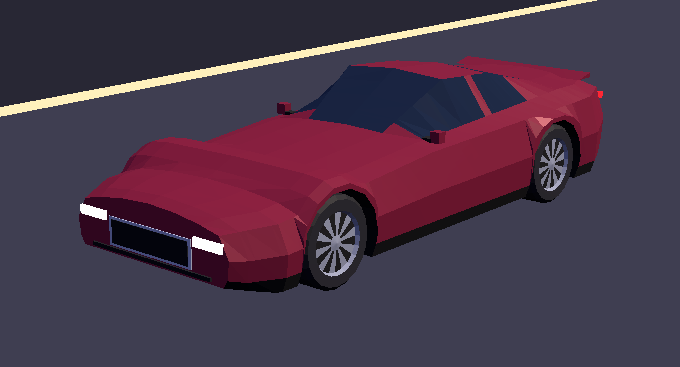
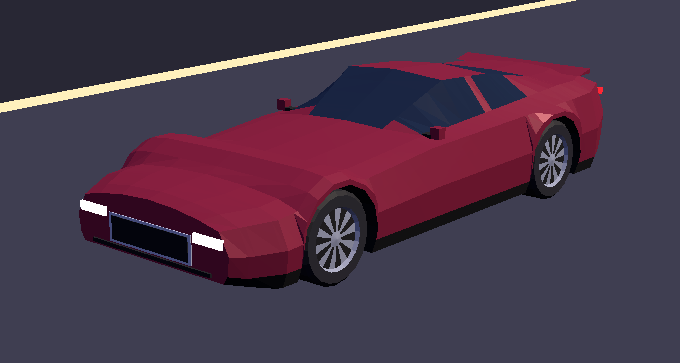
crazygames cars: the wing to the body's width, the tourer lower, a taller ducktail

diff --git a/crazygames/game/src/cars/driftbuild.js b/crazygames/game/src/cars/driftbuild.js
@@ -36,7 +36,7 @@ export default {
     { type: 'canards', z: 0.14, x0: 0.62, x1: 0.84, y: 0.3, rise: 0.06, colour: 0x1d1e22 },
     { type: 'skirts', y0: 0.1, y1: 0.2, out: 0.1, colour: 0x1d1e22 },
     { type: 'diffuser', depth: 0.45, y0: 0.13, y1: 0.33, rise: 0.12, span: 0.7, fins: 4, colour: 0x1d1e22 },
-    { type: 'wing', z: 1.98, chord: 0.38, thick: 0.05, angle: 0.22, y: 1.36, span: 0.88, post: 0.45, plateUp: 0.1, plateDown: 0.28, platePaint: true, colour: 0x16171b },
+    { type: 'wing', z: 1.98, chord: 0.38, thick: 0.05, angle: 0.22, y: 1.36, span: 0.97, post: 0.45, plateUp: 0.1, plateDown: 0.3, platePaint: true, colour: 0x16171b },
     { type: 'exhaust', x: [0.36], y: 0.24, r: 0.055, out: 0.015 },
   ],
   wheel: { segments: 18, spokes: 6, spokeShare: 0.34, rim: 0.66, dish: 0.07, colour: 0xc08a3e },

diff --git a/crazygames/game/src/cars/tourer.js b/crazygames/game/src/cars/tourer.js
@@ -15,7 +15,7 @@ export default {
   tail: { low: 0.3, belt: 0.86, deck: 0.92, taper: 0.86, round: 0.34 },
   belt: 0.78, beltRise: 0.05, hood: 0.82, hoodCrown: 0.05,
   screen: [-0.26, 0.38],
-  roof: { h: 1.24, end: 1.02, w: 0.5, drop: 0.04, crown: 0.035 },
+  roof: { h: 1.2, end: 1.02, w: 0.5, drop: 0.04, crown: 0.035 },
   rear: { base: 1.86, deck: 0.93 },
   windows: [[-0.14, 0.72], [0.8, 1.3]],
   shoulder: 0.09, glassIn: 0.18, waist: 0.46,

diff --git a/crazygames/game/src/cars/fastback.js b/crazygames/game/src/cars/fastback.js
@@ -33,7 +33,7 @@ export default {
   },
   extras: [
     { type: 'mirrors', at: 0.14, reach: 0.15 },
-    { type: 'lip', back: 0.0, chord: 0.22, h: 0.09, span: 0.82, paint: true },
+    { type: 'lip', back: 0.0, chord: 0.24, h: 0.12, span: 0.84, paint: true },
     { type: 'exhaust', x: [0.55, -0.55], y: 0.31, r: 0.05, out: 0.015 },
   ],
   wheel: { segments: 15, spokes: 5, spokeShare: 0.33, rim: 0.66, dish: 0.045, colour: 0x5a5e66 },
